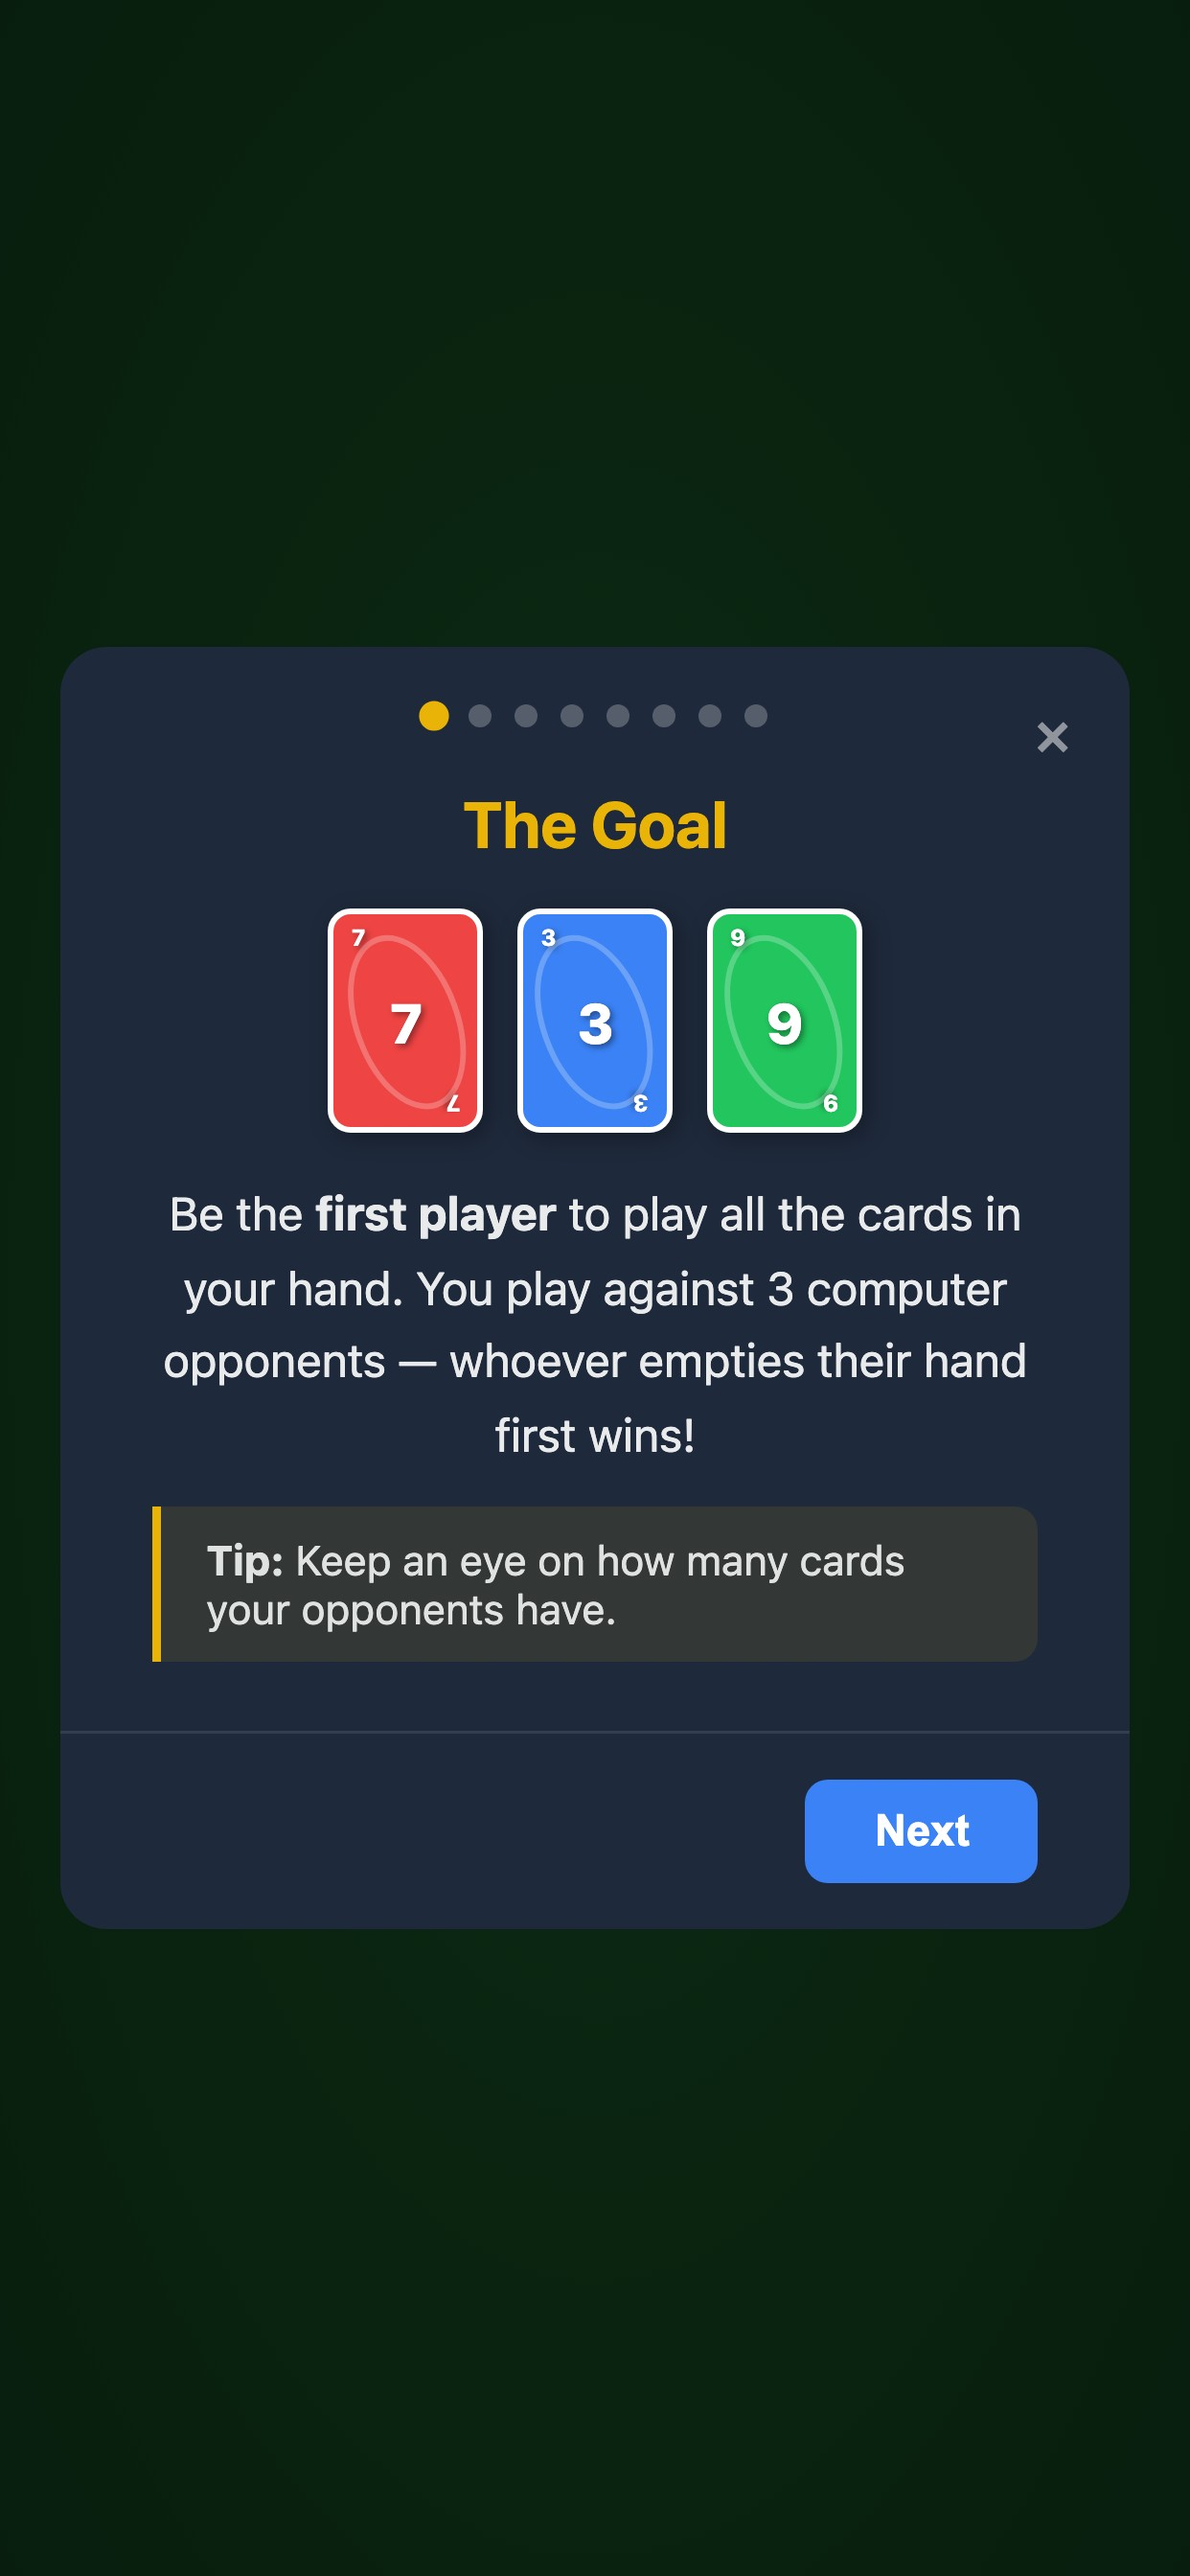
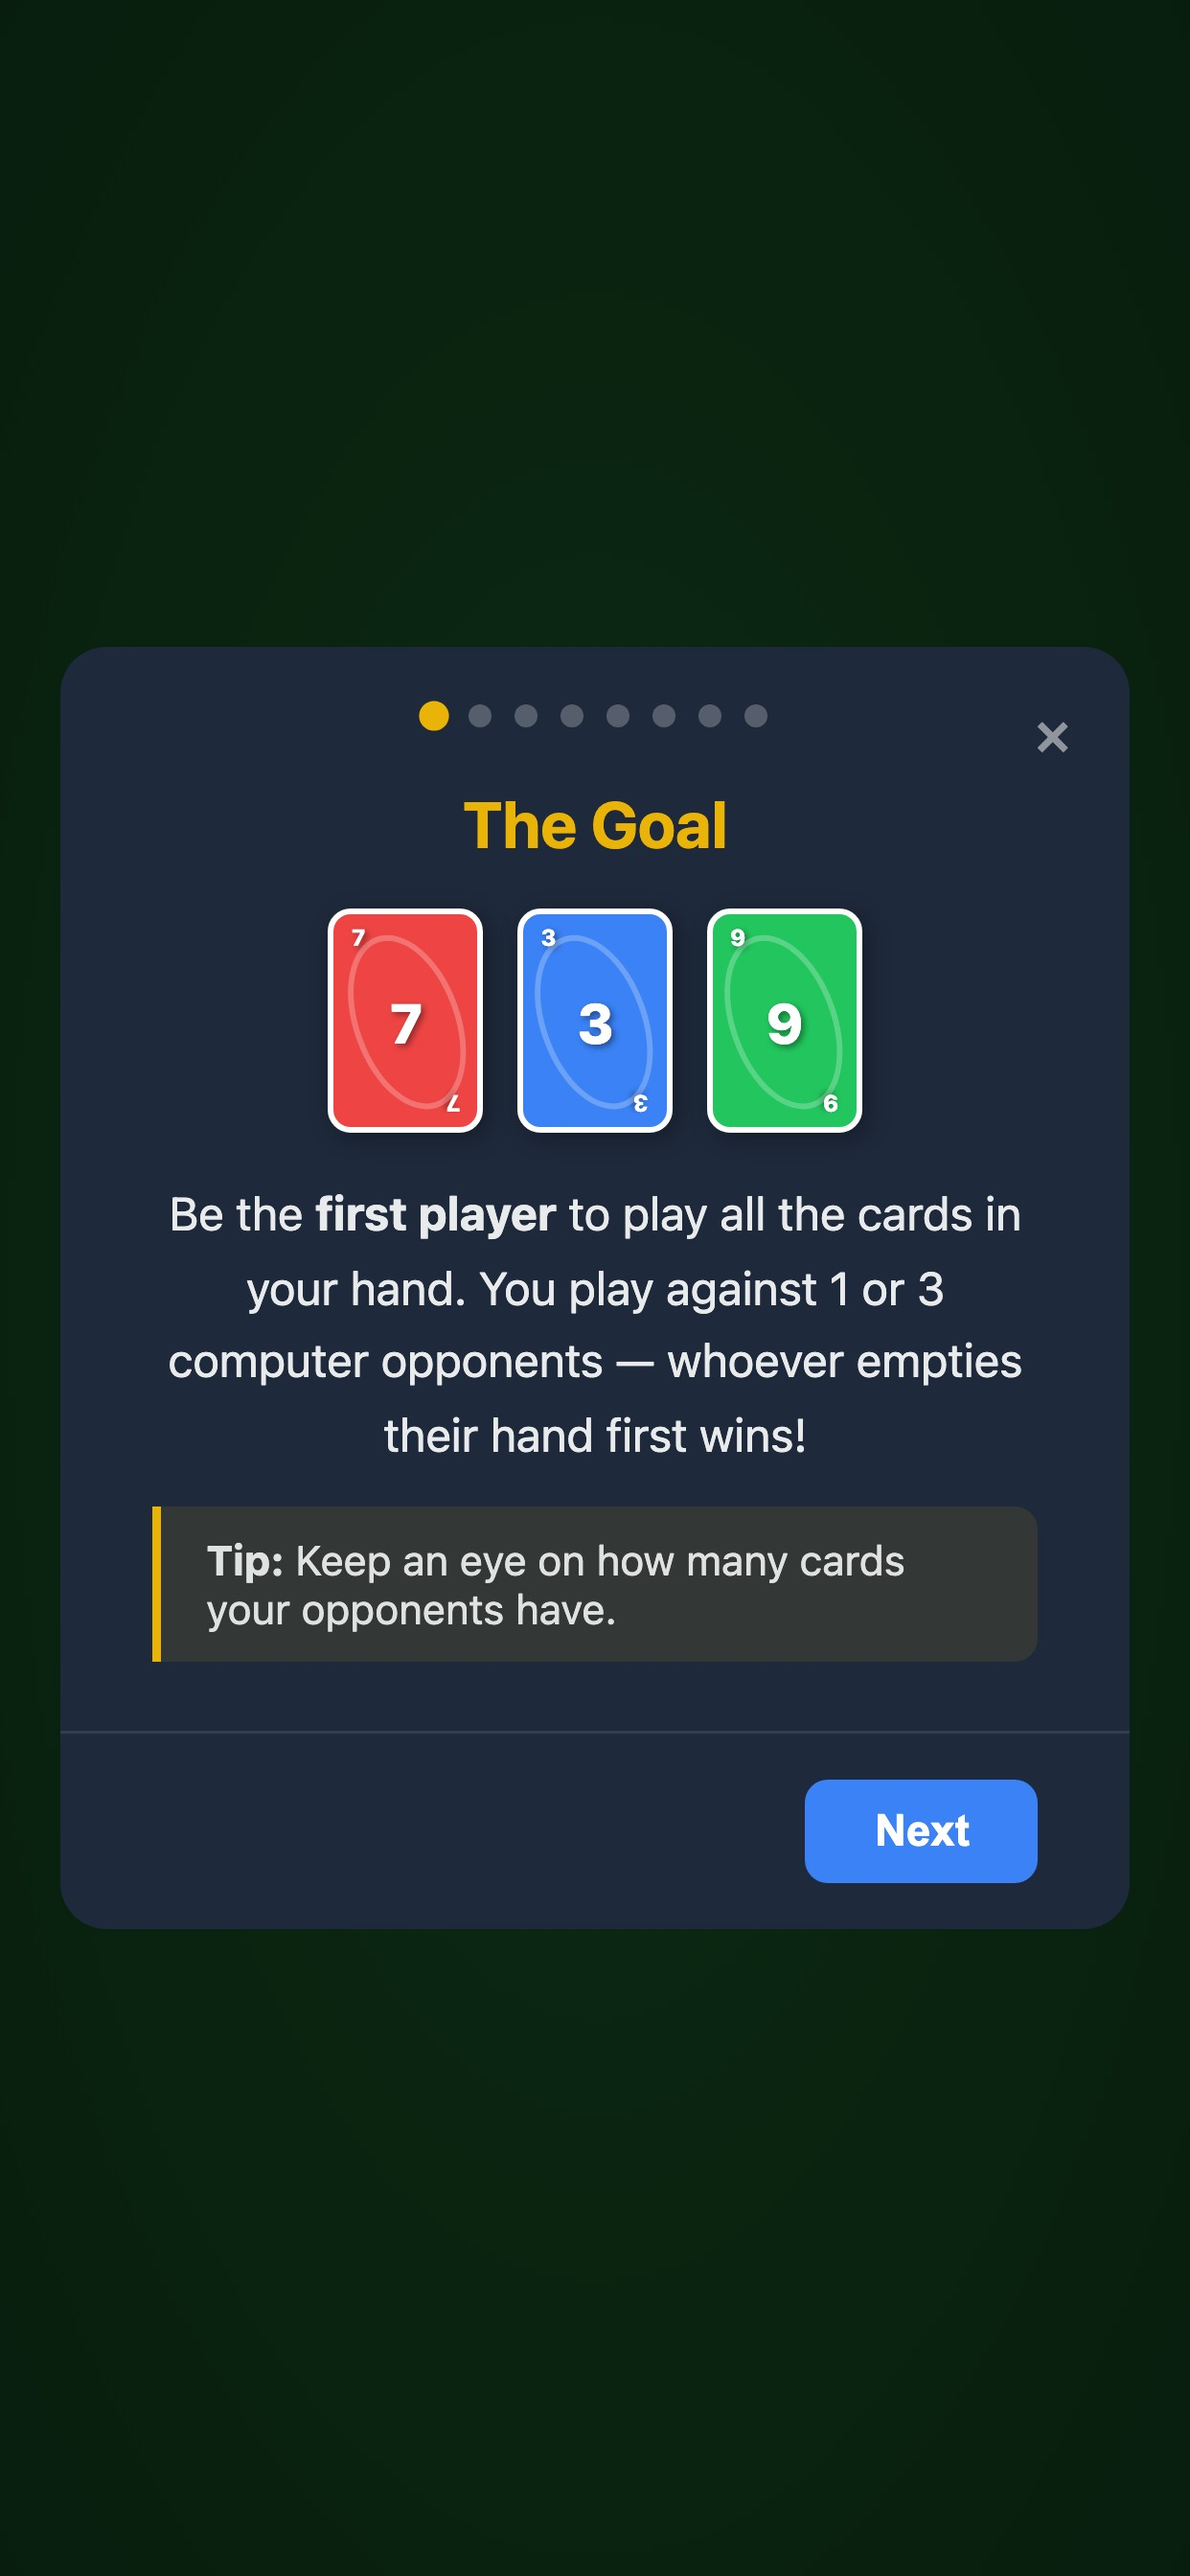
Say 1 or 3 opponents in the tutorial's first step

Changed region(s): [[0.153, 0.4688, 0.8567, 0.5625]]

diff --git a/src/components/TutorialOverlay.vue b/src/components/TutorialOverlay.vue
@@ -22,7 +22,7 @@ interface TutorialStep {
 const steps: TutorialStep[] = [
   {
     title: 'The Goal',
-    body: 'Be the <strong>first player</strong> to play all the cards in your hand. You play against 3 computer opponents — whoever empties their hand first wins!',
+    body: 'Be the <strong>first player</strong> to play all the cards in your hand. You play against 1 or 3 computer opponents — whoever empties their hand first wins!',
     cards: [
       { color: 'red', value: 7 },
       { color: 'blue', value: 3 },
